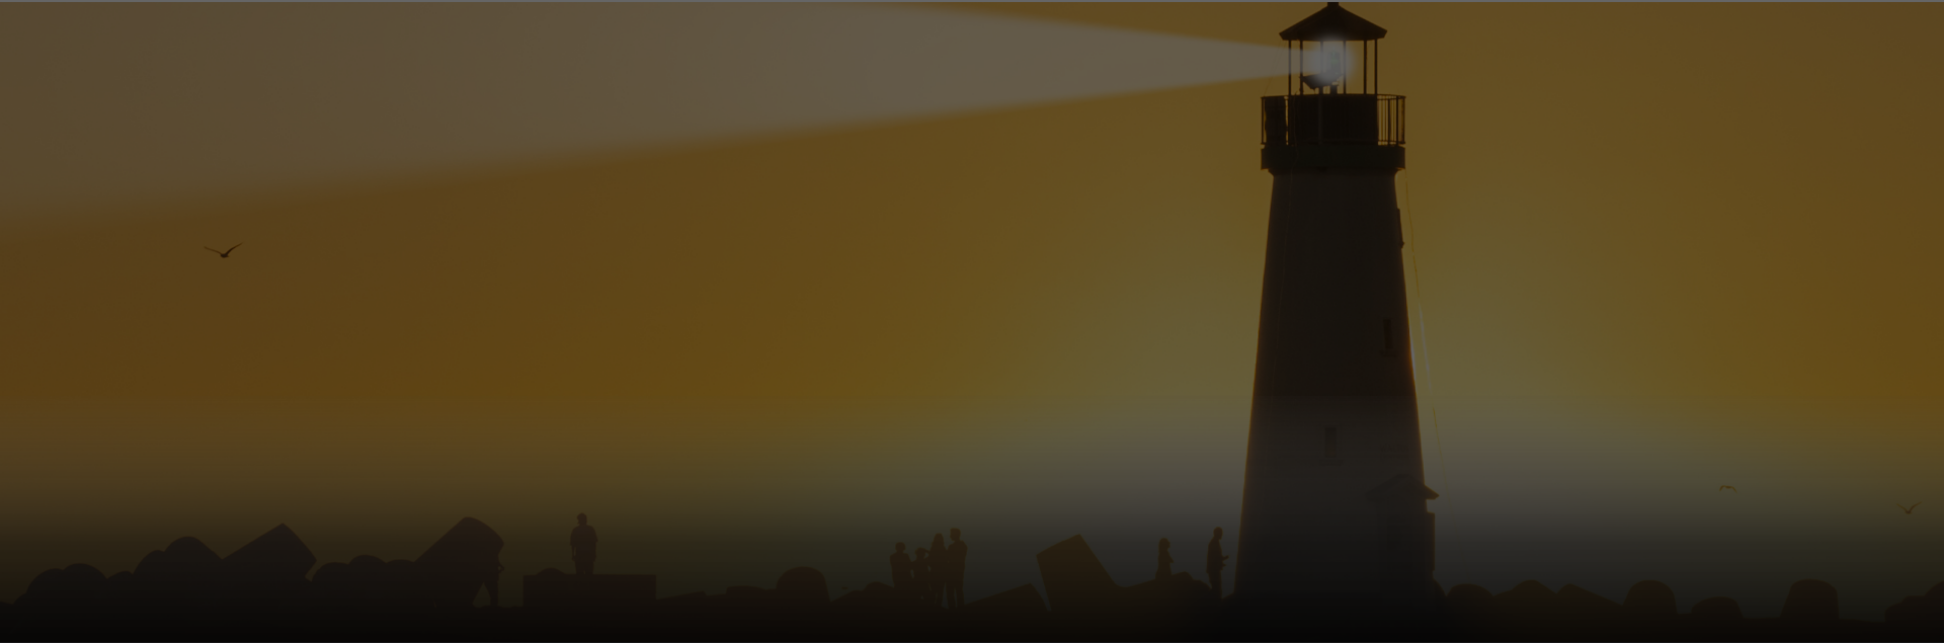
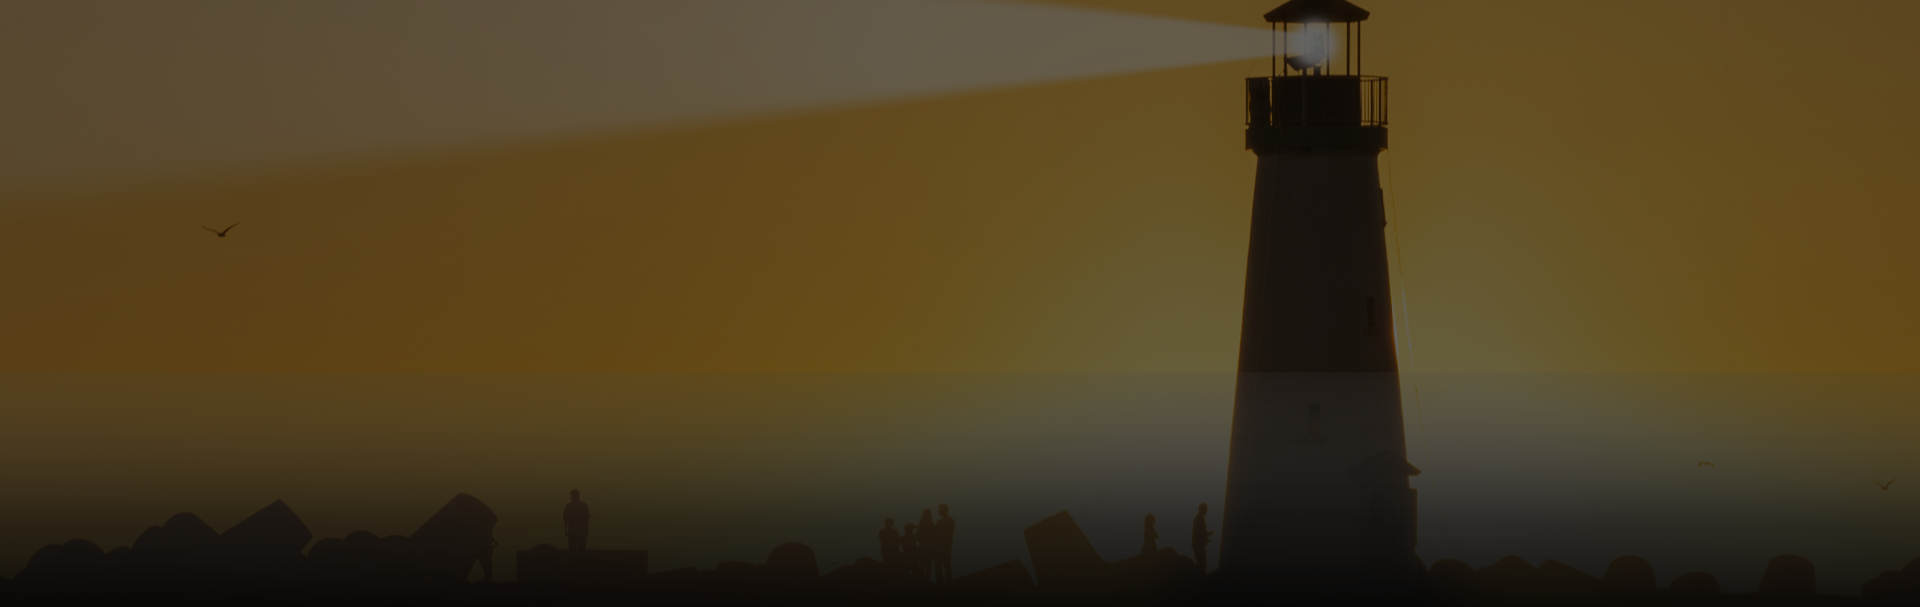
ending add default imgs when back os emppty

diff --git a/src/pages/product/ProductPage.jsx b/src/pages/product/ProductPage.jsx
@@ -4,6 +4,8 @@ import { useParams } from 'react-router-dom';
 import DataProduct from './dataProductItem/DataProductItem';
 import './ProductPage.css';
 import { getProductPageData } from '../../api/api';
+import iconProductDefault from '../../assets/produto-icon-default.svg';
+import bgProductDefault from '../../assets/produto-bg-default.png';
 
 export default function Produto() {
   const { productName } = useParams();
@@ -22,12 +24,19 @@ export default function Produto() {
 
   return productData ? (
     <article className="productPage-outer">
-      <div
-        className="productPage-img"
-        style={{ backgroundImage: `url(${productData.bannerUrl})` }}
-      />
+      <div className="productPage-img">
+        {!productData.bannerUrl ? (
+          <img src={bgProductDefault} alt="bg-default" />
+        ) : (
+          <img src={productData.bannerUrl} alt={productData.title} />
+        )}
+      </div>
       <div className="productPage-presentation">
-        <img src={productData.icon} alt={`Ícone ${productData.title}`} />
+        {!productData.icon ? (
+          <img src={iconProductDefault} alt="icone-defalut" />
+        ) : (
+          <img src={productData.icon} alt={`Ícone ${productData.title}`} />
+        )}
         <h2>{productData.subtitle}</h2>
         <p>{productData.description}</p>
       </div>

diff --git a/src/pages/product/dataProductItem/DataProductItem.jsx b/src/pages/product/dataProductItem/DataProductItem.jsx
@@ -2,20 +2,27 @@
 import React from 'react';
 import PropTypes from 'prop-types';
 import './DataProductItem.css';
+import miniaturaDefault from '../../../assets/produto-miniatura-default.png';
 
 export default function DataProductItem({
-  subsectionTitle, subsectionDescription, imgUrl, textBtn, url,
+  subsectionTitle,
+  subsectionDescription,
+  imgUrl,
+  textBtn,
+  url,
 }) {
   return (
     <>
       <div className="productItem-texts">
-        <h3>
-          {subsectionTitle}
-        </h3>
+        <h3>{subsectionTitle}</h3>
         <p>{subsectionDescription}</p>
       </div>
       <div className="productItem-action">
-        <img src={imgUrl} alt={subsectionTitle} />
+        {!imgUrl ? (
+          <img src={miniaturaDefault} alt="icon-miniatura-default" />
+        ) : (
+          <img src={imgUrl} alt={subsectionTitle} />
+        )}
         <a href={url} target="_blank" rel="noopener noreferrer">
           {textBtn}
         </a>

diff --git a/src/pages/product/ProductPage.css b/src/pages/product/ProductPage.css
@@ -8,11 +8,14 @@
 }
 
 .productPage-img {
+  grid-row: 1 / 3;
+  grid-column: 1 / 6;
+}
+.productPage-img img {
   background-position: center;
   background-size: cover;
   background-repeat: no-repeat;
-  grid-row: 1 / 3;
-  grid-column: 1 / 6;
+  width: 100%;
 }
 
 .productPage-presentation {
@@ -54,6 +57,7 @@
   grid-row: 3 / 4;
   grid-column: 2 / 3;
   padding-right: 2vw;
+  background-color: var(--colorWhite);
 }
 
 .productPage-service {
@@ -62,6 +66,7 @@
   flex-direction: column;
   grid-row: 3 / 4;
   grid-column: 3 / 4;
+  background-color: var(--colorWhite);
 }
 
 .productPage-tabNavigation {

diff --git a/src/pages/product/dataProductItem/DataProductItem.css b/src/pages/product/dataProductItem/DataProductItem.css
@@ -1,12 +1,14 @@
 .productItem-action {
   grid-row: 3 / 5;
   grid-column: 4 / 5;
+  background-color: var(--colorWhite);
 }
 
 .productItem-action img {
   width: 100%;
   /* Fill up the space minus the anchor with 1vh margins on top and bottom */
-  max-height: calc(100% - (3 * var(--smallFont) + 4vh))
+  max-height: calc(100% - (3 * var(--smallFont) + 4vh));
+  border-radius: 10px;
 }
 
 .productItem-action a {

diff --git a/src/api/transforms/productPageTransform.js b/src/api/transforms/productPageTransform.js
@@ -7,6 +7,7 @@ export default function productPageTransform(rawData) {
     service: result.service,
     organ: result.organization.title,
     url: result.product_url,
+
     bannerUrl: result.resources?.find(
       (image) => image.name === 'product_banner',
     )?.url,
